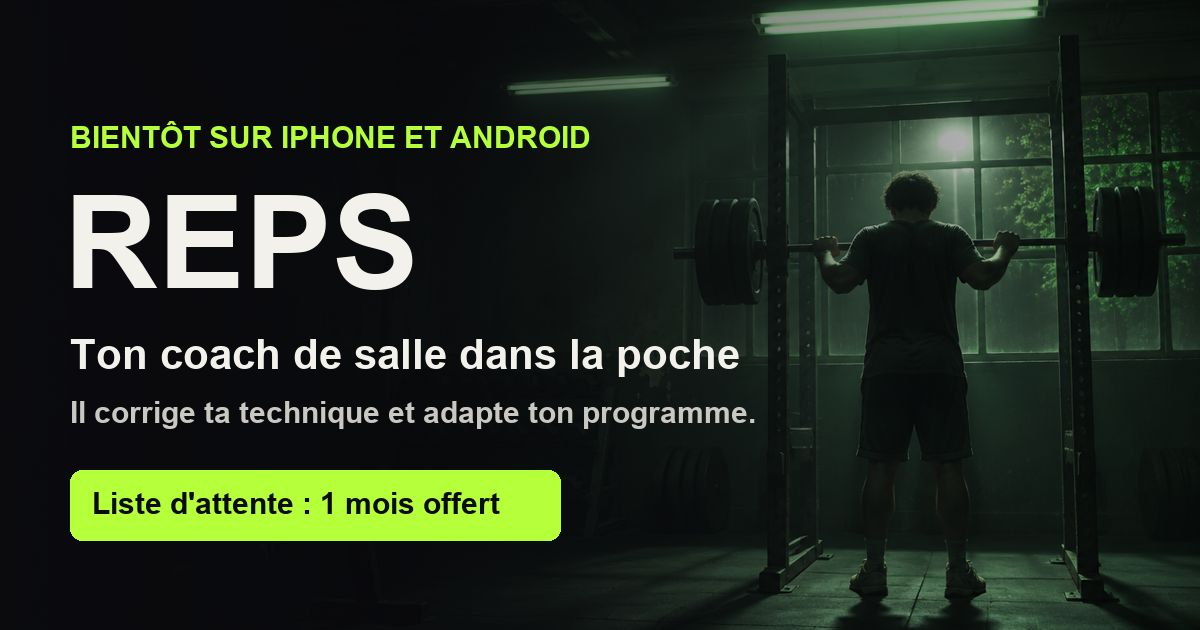
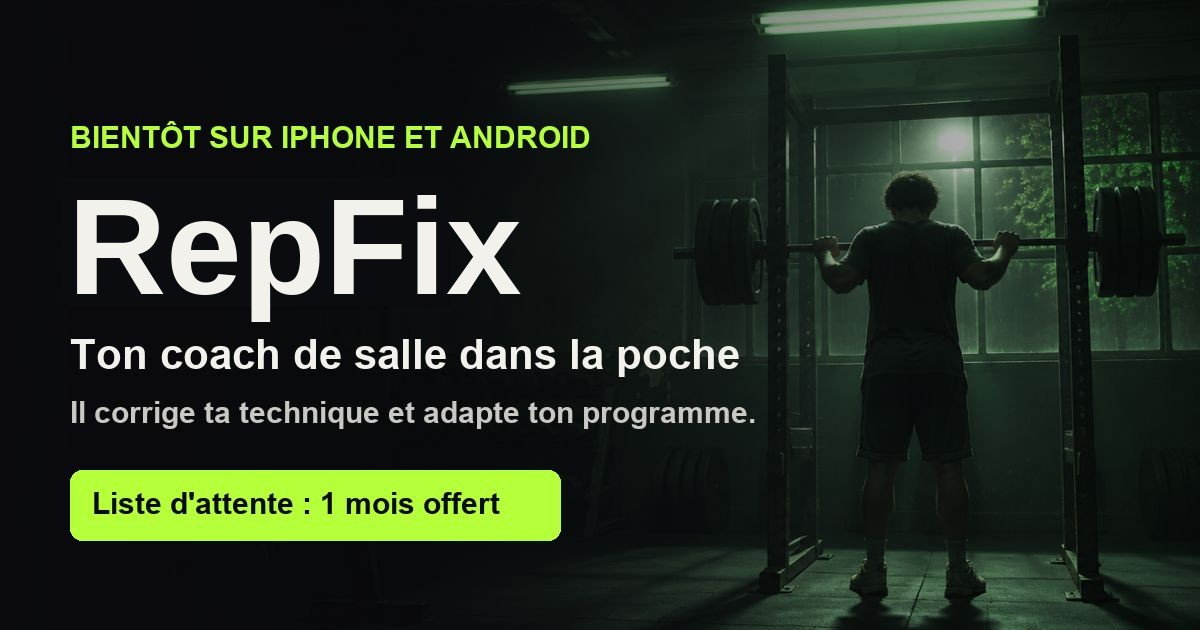
Cloud : image de partage RepFix (og.jpg) avec le nouveau nom
Claude-Session: https://claude.ai/code/session_01ErCkWmxzo3pR9f6tgxmUSs

Changed region(s): [[0.0617, 0.3016, 0.4317, 0.5127]]

diff --git a/repfix/styles.css b/repfix/styles.css
@@ -1,4 +1,4 @@
-/* REPS : page liste d'attente. Styles hors couches => prioritaires sur le gabarit. */
+/* RepFix : page liste d'attente. Styles hors couches => prioritaires sur le gabarit. */
 @font-face {
   font-family: "Oswald";
   src: url("fonts/oswald-latin.woff2") format("woff2");

diff --git a/ETAT.md b/ETAT.md
@@ -47,7 +47,7 @@ Mettre ce tableau à jour à chaque programmation Buffer.
 
 ## Journal (le plus récent en haut)
 
-- 24/11 22h20 Cloud : pages corrigées (branche claude/project-thread-i08t0k, PR à fusionner) : RepFix, « REPS » remplacé par « RepFix » partout (pages + partage) ; Oh My Glow, contact et mentions légales remplis (ohmyglowpub@gmail.com, « projet en cours de création »). Liste des fonctionnalités des 2 applis rédigée dans un Claude Doc « Fonctionnalités RepFix et Oh My Glow ». À trancher : retirer « Repas en photo » de la page OMG (pm le met de côté). L'image de partage repfix/img/og.jpg affiche peut-être encore REPS.
+- 24/11 22h20 Cloud : pages corrigées (branche claude/project-thread-i08t0k, PR à fusionner) : RepFix, « REPS » remplacé par « RepFix » partout (pages + partage) ; Oh My Glow, contact et mentions légales remplis (ohmyglowpub@gmail.com, « projet en cours de création »). Liste des fonctionnalités des 2 applis rédigée dans un Claude Doc « Fonctionnalités RepFix et Oh My Glow ». À trancher : retirer « Repas en photo » de la page OMG (pm le met de côté). Image de partage repfix/img/og.jpg refaite avec RepFix.
 - 24/11 19h Cloud : mercredi 25/11 RepFix = 10/10 : TikTok 26 squat v3 (10h), carrousel courbatures (12h), 27 pompes v3 (15h), carrousel gainage (18h), 28 programme 3 jours v3 (21h30) ; YT 14 (12h30), 15 (18h) ; Insta 10 (12h), carrousel courbatures (16h), 11 (19h30). Nouveau format v3 + nouveau mixage. Copie Drive « RepFix FR / 1 - à poster » pas faite (Drive de pm plein). Branche temporaire claude/project-thread-4tpqq4 (voix) : peut être supprimée.
 - 24/11 18h40 Cloud : mercredi 25/11 OMG = 10/10 : TikTok glow-23 (10h), carrousel c01 (12h), glow-24 (15h), carrousel c02 (18h), glow-25 (21h30) ; YT 12 (12h30), 14 (18h) ; Insta 10 (12h), carrousel c01 (16h), 11 (19h30). Rien n'avait été programmé pour OMG le 24/11. RepFix non fait (connecteur Buffer sur ohmyglowpub).
 
